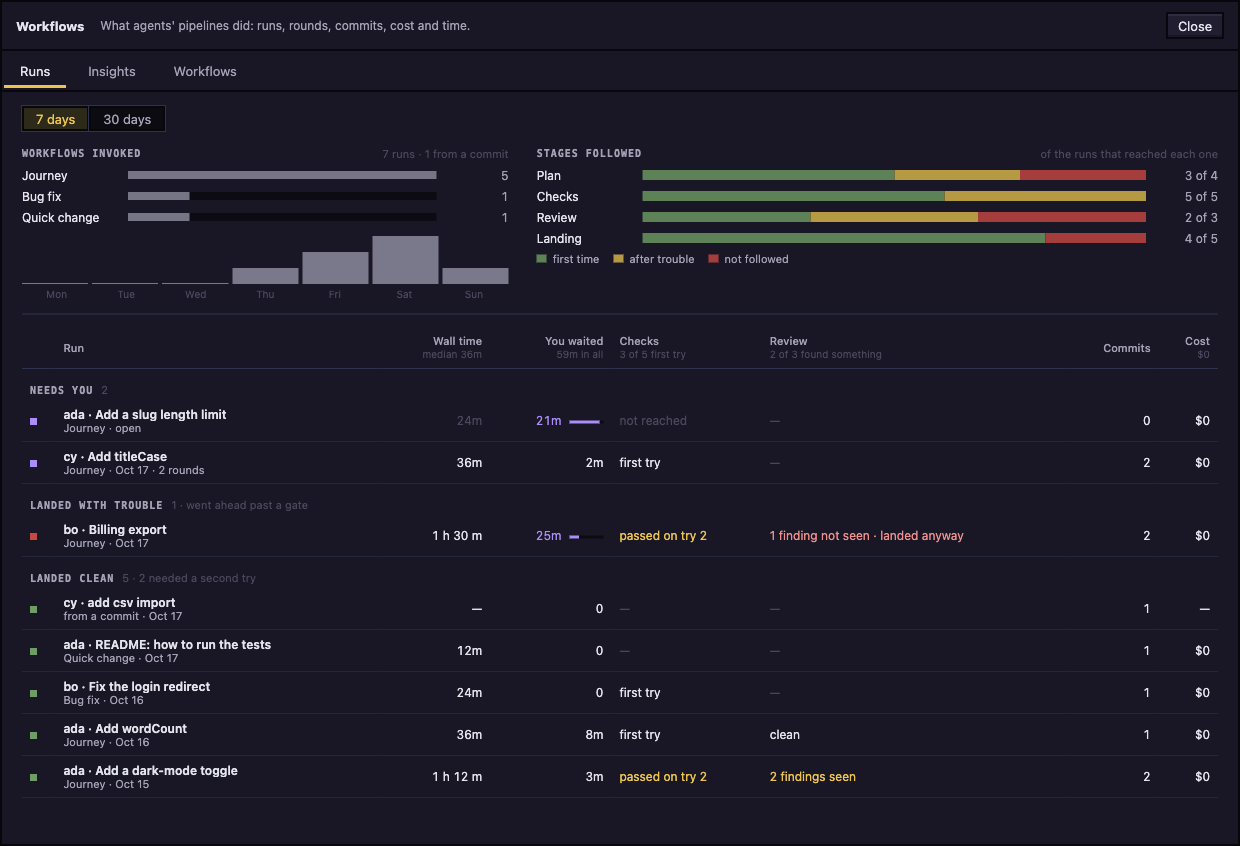
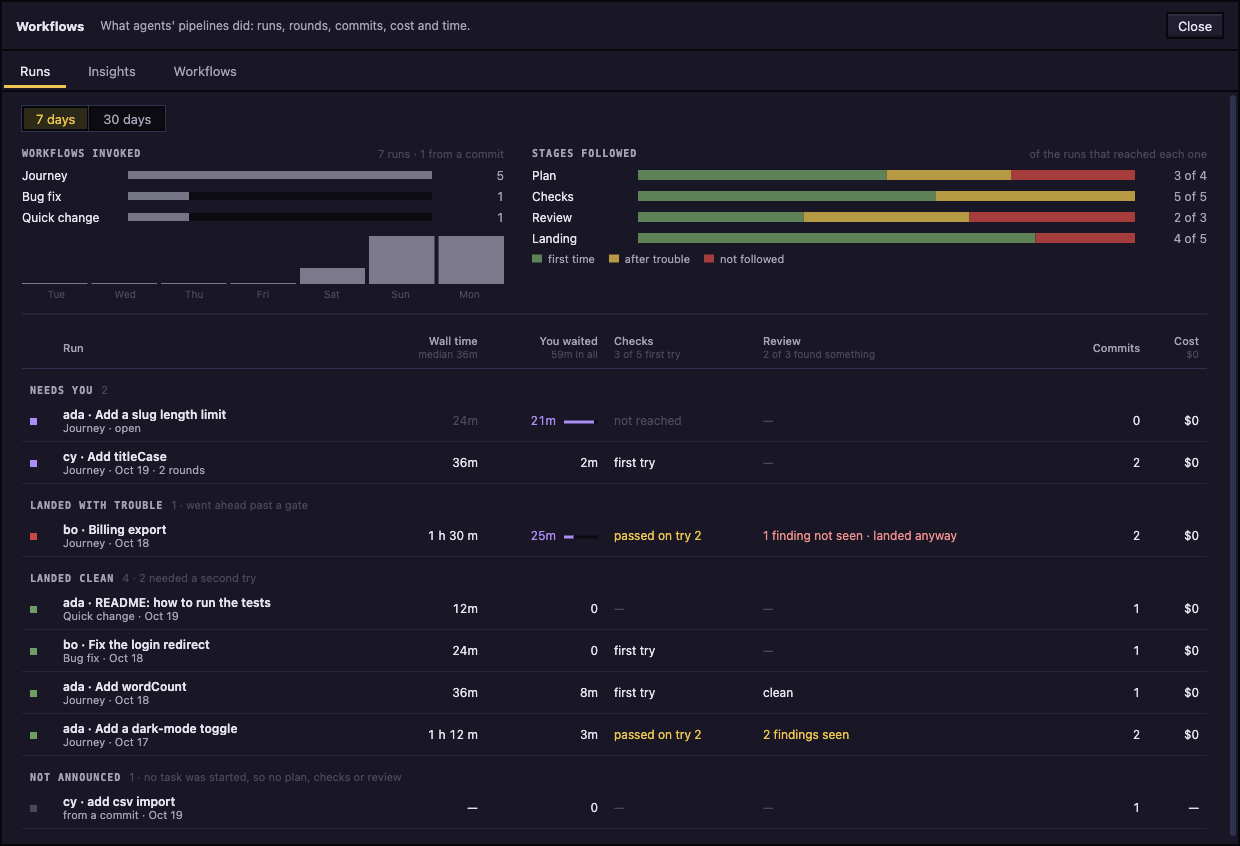
fix(workflows): a run the app starts from a commit is Not announced, not Landed clean, belongs to the todo the agent is on and to one todo, setting a task to doing claims it, and each turn with no task open reminds the agent to call task_begin

diff --git a/src/shared/insights.ts b/src/shared/insights.ts
@@ -328,7 +328,7 @@ export function invocations(runs: Run[], days: number, now: number): Invocations
   return { byWorkflow, total: byWorkflow.reduce((n, w) => n + w.runs, 0), fromCommit, perDay }
 }
 
-export type GroupKey = 'needs' | 'open' | 'trouble' | 'clean' | 'stopped'
+export type GroupKey = 'needs' | 'open' | 'trouble' | 'clean' | 'stopped' | 'unannounced'
 export interface RunGroup {
   key: GroupKey
   title: string
@@ -337,24 +337,26 @@ export interface RunGroup {
   /** Newest first. */
   runs: Run[]
 }
-const GROUP_TITLES: Record<GroupKey, string> = { needs: 'Needs you', open: 'Still open', trouble: 'Landed with trouble', clean: 'Landed clean', stopped: 'Stopped' }
+const GROUP_TITLES: Record<GroupKey, string> = { needs: 'Needs you', open: 'Still open', trouble: 'Landed with trouble', clean: 'Landed clean', stopped: 'Stopped', unannounced: 'Not announced' }
 
 /**
  * The runs by what there is to do about them: those held for the person, those still going, those that finished with a gate missed or overridden, those that finished clean
- * (a retried check or a plan sent back is still clean), and those stopped. A run the app started from a commit is not trouble for never having been announced.
+ * (a retried check or a plan sent back is still clean), and those stopped. A run the app started from a commit is not trouble for never having been announced, nor clean: it has a group of its own.
  */
 export function groupKeyOf(r: Run, tiles: Tile[]): GroupKey {
   if (r.status === 'stopped') return 'stopped'
   if (tiles.some((t) => t.kind === 'wait')) return 'needs'
   if (r.status === 'open') return 'open'
-  return tiles.some((t) => t.gate !== 'told' && t.kind === 'bad') ? 'trouble' : 'clean'
+  if (tiles.some((t) => t.gate !== 'told' && t.kind === 'bad')) return 'trouble'
+  // A run the app started from a commit never had a task, a plan, checks or a review: nothing of it landed clean.
+  return r.auto ? 'unannounced' : 'clean'
 }
 
 /** How a run is said to stand, in the words of its group. */
-export const GROUP_STANDS: Record<GroupKey, string> = { needs: 'needs you', open: 'still open', trouble: 'landed with trouble', clean: 'landed clean', stopped: 'stopped' }
+export const GROUP_STANDS: Record<GroupKey, string> = { needs: 'needs you', open: 'still open', trouble: 'landed with trouble', clean: 'landed clean', stopped: 'stopped', unannounced: 'not announced' }
 
 export function groupRuns(runs: Run[], ctxFor: (run: Run) => StepContext): RunGroup[] {
-  const buckets: Record<GroupKey, Run[]> = { needs: [], open: [], trouble: [], clean: [], stopped: [] }
+  const buckets: Record<GroupKey, Run[]> = { needs: [], open: [], trouble: [], clean: [], stopped: [], unannounced: [] }
   let retried = 0
   for (const r of [...runs].sort((a, b) => b.startedAt - a.startedAt)) {
     const tiles = gateTiles(r, ctxFor(r))
@@ -362,8 +364,8 @@ export function groupRuns(runs: Run[], ctxFor: (run: Run) => StepContext): RunGr
     buckets[key].push(r)
     if (key === 'clean' && tiles.some((t) => t.kind === 'trouble')) retried++
   }
-  const notes: Record<GroupKey, string> = { needs: '', open: '', trouble: 'went ahead past a gate', clean: retried > 0 ? `${retried} needed a second try` : '', stopped: '' }
-  return (['needs', 'open', 'trouble', 'clean', 'stopped'] as const).filter((k) => buckets[k].length > 0).map((key) => ({ key, title: GROUP_TITLES[key], note: notes[key], runs: buckets[key] }))
+  const notes: Record<GroupKey, string> = { needs: '', open: '', trouble: 'went ahead past a gate', clean: retried > 0 ? `${retried} needed a second try` : '', stopped: '', unannounced: 'no task was started, so no plan, checks or review' }
+  return (['needs', 'open', 'trouble', 'clean', 'stopped', 'unannounced'] as const).filter((k) => buckets[k].length > 0).map((key) => ({ key, title: GROUP_TITLES[key], note: notes[key], runs: buckets[key] }))
 }
 
 export interface LedgerRow {

diff --git a/src/main/index.ts b/src/main/index.ts
@@ -82,7 +82,7 @@ import { askModel, auditModel, defaultWorkflow, pickAsker } from '../shared/work
 import { runSpend } from '../shared/runStats'
 import { planReply } from '../shared/plan'
 import { LOG_FORMAT, parseCommitLog } from './workflows/commits'
-import { WORKFLOW_HINT, WORKFLOW_TOOLS, planInstruction, workflowBrief, workflowList } from './workflows/hint'
+import { WORKFLOW_HINT, WORKFLOW_TOOLS, planInstruction, workflowBrief, workflowList, workflowRemind } from './workflows/hint'
 import { fitOptions } from '../shared/efforts'
 import { DEFAULT_PROVIDER } from '../shared/types'
 import { Screen } from './screen'
@@ -619,10 +619,15 @@ const todoRemind = (id: string, prompt: string): string => {
 const LIBRARY_TOOLS = ['library_index', 'library_get', 'library_search', 'library_skip'].map((t) => `mcp__agent-world__${t}`)
 // The todo board is the project's own list, so an agent may use it without asking each time too.
 const TODO_TOOLS = ['todo_list', 'todo_search', 'todo_get', 'todo_add', 'todo_claim', 'todo_done', 'todo_update'].map((t) => `mcp__agent-world__${t}`)
+// The nudge to call task_begin: the opening text alone was not followed reliably (a real agent recorded about half its tasks), so each turn with no task open repeats it.
+const workflowReminder = (id: string): string => {
+  const a = byId(id)
+  return a ? workflowRemind({ enabled: prefs.workflows.enabled, subagent: !!a.parent, builder: !!a.builder, open: workflows.runs().some((r) => r.agent === id && r.status === 'open') }) : ''
+}
 // What is added to each message an agent is sent (Claude only: it has a hook for it) comes from libraryService.remind.
 const libraryRemind = (id: string, prompt: string) => {
   try {
-    return [prefs.libraryEnabled ? libraryService.remind(id, prompt) : '', todoRemind(id, prompt)].filter(Boolean).join('\n') || null
+    return [prefs.libraryEnabled ? libraryService.remind(id, prompt) : '', todoRemind(id, prompt), workflowReminder(id)].filter(Boolean).join('\n') || null
   } catch {
     return null
   }

diff --git a/e2e/workflows-reminder.e2e.ts b/e2e/workflows-reminder.e2e.ts
@@ -1,0 +1,37 @@
+import { mkdirSync, mkdtempSync, writeFileSync } from 'node:fs'
+import { tmpdir } from 'node:os'
+import { join, resolve } from 'node:path'
+import { expect, test } from '@playwright/test'
+import { hire, launchApp } from './launch'
+
+// The office adds a line to a request while workflows are on and the agent has no task open, so the agent is asked again to announce it.
+async function run(workflows: boolean) {
+  const home = mkdtempSync(join(tmpdir(), 'aw-wfrem-'))
+  mkdirSync(join(home, 'aw'), { recursive: true })
+  writeFileSync(join(home, 'aw', 'preferences.json'), JSON.stringify({ setup: { done: true, defaultProvider: 'claude' }, workflows: { enabled: workflows, dial: 'balanced', since: 1, planGate: false, mergeGate: false } }))
+  const { app, shutdown } = await launchApp({ AW_HOME: join(home, 'aw'), AW_CLAUDE_BIN: resolve(__dirname, 'fake-claude.mjs'), FAKE_DELAY_MS: '50', FAKE_SHOW_REMINDER: '1' }, home)
+  const page = await app.firstWindow()
+  await page.evaluate((f) => localStorage.setItem('aw.folder', f), home)
+  await page.reload()
+  await hire(page)
+  return { page, shutdown }
+}
+
+test('with workflows on, a turn with no task open is reminded to call task_begin', async () => {
+  const { page, shutdown } = await run(true)
+  try {
+    await expect(page.locator('.term-host:visible')).toContainText('REMINDER: Before acting: if this request changes code', { timeout: 15_000 })
+  } finally {
+    await shutdown()
+  }
+})
+
+test('with workflows off, nothing about tasks is added to the request', async () => {
+  const { page, shutdown } = await run(false)
+  try {
+    await expect(page.locator('.term-host:visible')).toContainText('REMINDER:', { timeout: 15_000 })
+    await expect(page.locator('.term-host:visible')).not.toContainText('task_begin')
+  } finally {
+    await shutdown()
+  }
+})

diff --git a/src/shared/insights.test.ts b/src/shared/insights.test.ts
@@ -1,5 +1,5 @@
 import { describe, expect, it } from 'vitest'
-import { type Tile, type TileKind, columnRates, groupKeyOf, groupRuns, invocations, ledgerRow, ledgerTotals, stageCounts, gateTiles, headline, runBar, runVerdict, runsWithin, says, timelineOf, weekDays } from './insights'
+import { type Tile, type TileKind, columnRates, GROUP_STANDS, groupKeyOf, groupRuns, invocations, ledgerRow, ledgerTotals, stageCounts, gateTiles, headline, runBar, runVerdict, runsWithin, says, timelineOf, weekDays } from './insights'
 import { type RunEvent, type RunWorkflow, reduceRuns } from './runs'
 
 const MIN = 60_000
@@ -341,9 +341,13 @@ describe('the runs grouped by what to do about them', () => {
     expect(only.map((g) => g.key)).toEqual(['clean'])
     expect(only[0]!.note).toBe('')
   })
-  it('does not call a run the app started from a commit trouble just because it was never announced', () => {
+  it('does not call a run the app started from a commit trouble, nor clean: it is not announced, in a group of its own below the others', () => {
     const auto = reduceRuns([begin(0, null, { auto: true }, 'c'), done(1, 'c')])
-    expect(groupRuns(auto, () => ctx).map((g) => g.key)).toEqual(['clean'])
+    const groups = groupRuns([...auto, ...reduceRuns(landedClean('x', 5))], () => ctx)
+    expect(groups.map((g) => g.key)).toEqual(['clean', 'unannounced'])
+    expect(groups[1]).toMatchObject({ title: 'Not announced', note: 'no task was started, so no plan, checks or review' })
+    expect(groupKeyOf(auto[0]!, gateTiles(auto[0]!, ctx))).toBe('unannounced')
+    expect(GROUP_STANDS.unannounced).toBe('not announced')
   })
 })
 

diff --git a/src/main/workflows/hint.test.ts b/src/main/workflows/hint.test.ts
@@ -1,6 +1,6 @@
 import { describe, expect, it } from 'vitest'
 import type { RunWorkflow } from '../../shared/runs'
-import { PLAN_INSTRUCTION, WORKFLOW_TOOLS, planInstruction, workflowBrief, workflowList } from './hint'
+import { PLAN_INSTRUCTION, WORKFLOW_REMINDER, WORKFLOW_TOOLS, planInstruction, workflowBrief, workflowList, workflowRemind } from './hint'
 
 describe('what task_begin tells the agent about the plan, per dial', () => {
   it('balanced and max ask for the plan every time', () => {
@@ -95,5 +95,18 @@ describe('the workflows the opening text offers', () => {
 describe('the tools an agent may use without being asked each time', () => {
   it('are the office\'s four workflow tools, so reporting a step never stops to ask the person for permission', () => {
     expect(WORKFLOW_TOOLS).toEqual(['mcp__agent-world__task_begin', 'mcp__agent-world__task_done', 'mcp__agent-world__plan_submit', 'mcp__agent-world__step_done'])
+  })
+})
+
+describe('the reminder to announce a task, said at the start of a turn', () => {
+  const ask = { enabled: true, subagent: false, builder: false, open: false }
+  it('is said while workflows are on and the agent has no task open', () => {
+    expect(workflowRemind(ask)).toBe(WORKFLOW_REMINDER)
+  })
+  it('is not said with workflows off, to the builder or a subagent, or while a task is open', () => {
+    expect(workflowRemind({ ...ask, enabled: false })).toBe('')
+    expect(workflowRemind({ ...ask, builder: true })).toBe('')
+    expect(workflowRemind({ ...ask, subagent: true })).toBe('')
+    expect(workflowRemind({ ...ask, open: true })).toBe('')
   })
 })

diff --git a/src/main/workflows/service.test.ts b/src/main/workflows/service.test.ts
@@ -241,6 +241,24 @@ describe('work the agent never announced', () => {
     expect(wf.runs().map((r) => [r.title, r.rounds[0]!.commits.length])).toEqual([['feat: add slugify', 2], ['feat: add truncate', 1]])
   })
 
+  it('a run the app starts belongs to the task the agent is on, and a different task is a different run even when the commits are close', () => {
+    const { wf, state } = make()
+    state.todoOf = () => '4'
+    wf.commit('a2', 'c1', 'feat: cancel button', 10 * MIN)
+    wf.commit('a2', 'c2', 'test: cancel button', 12 * MIN)
+    state.todoOf = () => '5'
+    wf.commit('a2', 'c3', 'feat: todo chip', 13 * MIN)
+    expect(wf.runs().map((r) => [r.title, r.todos, r.rounds[0]!.commits.length])).toEqual([['feat: cancel button', ['4'], 2], ['feat: todo chip', ['5'], 1]])
+  })
+
+  it('commits made while no task is claimed still join, and take the task the agent claims next', () => {
+    const { wf, state } = make()
+    wf.commit('a2', 'c1', 'feat: a', 10 * MIN)
+    state.todoOf = () => '4'
+    wf.commit('a2', 'c2', 'feat: b', 12 * MIN)
+    expect(wf.runs().map((r) => [r.todos, r.rounds[0]!.commits.length])).toEqual([[['4'], 2]])
+  })
+
   it('nothing is started with workflows off, and after a task the agent announced a stray commit is still just flagged', () => {
     const off = make({ enabled: false })
     off.wf.commit('a2', 'x1', 'whatever', 5000)

diff --git a/src/main/workflows/service.ts b/src/main/workflows/service.ts
@@ -329,7 +329,11 @@ export class Workflows {
     if (!this.deps.enabled()) return
     if (last && !last.auto) return this.append({ k: 'commit', t: at, run: last.id, round: last.rounds.length, sha, subject, flagged: true })
     if (at < this.deps.since()) return
-    if (last?.endedAt !== undefined && at - last.endedAt < SAME_WORK_MS) {
+    // A run belongs to one task: commits close together join it unless the agent has moved to another task of the board.
+    const todo = this.deps.todoOf?.(agentId)
+    const held = last?.todos ?? []
+    if (last?.endedAt !== undefined && at - last.endedAt < SAME_WORK_MS && (!todo || held.length === 0 || held.includes(todo))) {
+      this.link(last.id, agentId, held)
       this.append({ k: 'commit', t: at, run: last.id, round: last.rounds.length, sha, subject })
       return this.append({ k: 'done', t: at, run: last.id })
     }
@@ -337,6 +341,7 @@ export class Workflows {
     if (!who) return
     const run = this.deps.newId()
     this.append({ k: 'begin', t: at, run, agent: agentId, name: who.name, project: who.project, title: subject, auto: true })
+    this.link(run, agentId)
     this.append({ k: 'commit', t: at, run, round: 1, sha, subject })
     this.append({ k: 'done', t: at, run })
   }

diff --git a/src/main/workflows/hint.ts b/src/main/workflows/hint.ts
@@ -11,6 +11,9 @@ export const WORKFLOW_TOOLS = ['task_begin', 'task_done', 'plan_submit', 'step_d
 export const WORKFLOW_REMINDER =
   'Before acting: if this request changes code or takes several steps, call task_begin first (follow_up: true only for more work on the task you just finished, not for a different piece of work), and task_done when it is finished. Skip both for a question, a typo or a tiny edit.'
 
+/** The reminder for one turn: only while workflows are on and the agent (not the builder, not a subagent) has no task open, so it costs nothing once a task is announced. */
+export const workflowRemind = (o: { enabled: boolean; subagent: boolean; builder: boolean; open: boolean }): string => (o.enabled && !o.subagent && !o.builder && !o.open ? WORKFLOW_REMINDER : '')
+
 /** What task_begin answers while the plan gate is on: where the plan goes, the four sections the app checks, and that edits wait for approval. */
 export const PLAN_INSTRUCTION =
   'Before changing anything, write your plan to .agent-world/plan.md and call plan_submit. Start the file with these four sections, in this order:\n' +

diff --git a/src/shared/todos.test.ts b/src/shared/todos.test.ts
@@ -57,6 +57,16 @@ describe('changing', () => {
     b = updateTodo(b, '1', { status: 'open' }, ada, 5)
     expect(b.todos[0]!.blockedWhy).toBeUndefined()
   })
+  it('an agent that sets a task to doing is on it, so a run can belong to it', () => {
+    let b = updateTodo(start(), '1', { status: 'doing' }, ada, 3)
+    expect(b.todos[0]).toMatchObject({ status: 'doing', claimedBy: ada })
+    expect(currentTodoOf(b, 'a1')?.id).toBe('1')
+    // A person marking it doing is not an agent working on it; another agent's claim is not taken over.
+    expect(updateTodo(start(), '1', { status: 'doing' }, you, 3).todos[0]!.claimedBy).toBeUndefined()
+    const bob: Actor = { kind: 'agent', id: 'b1', name: 'bob', provider: 'agy' }
+    b = updateTodo(b, '1', { status: 'doing' }, bob, 4)
+    expect(b.todos[0]!.claimedBy).toEqual(ada)
+  })
   it('does not let a second agent claim what another is doing', () => {
     const b = claimTodo(start(), '1', ada, 3)
     expect(() => claimTodo(b, '1', { kind: 'agent', id: 'b1', name: 'bob', provider: 'agy' }, 4)).toThrow(/ada/)

diff --git a/e2e/workflows-runs-view.e2e.ts b/e2e/workflows-runs-view.e2e.ts
@@ -33,7 +33,7 @@ test('the Runs tab is two charts (how often each workflow ran, how well each sta
 
     // The ledger: the run that waits on the person first, then what landed with trouble, then what landed clean, with how many each.
     const ledger = win.getByRole('table', { name: 'Runs' })
-    await expect(ledger.locator('.rb-grp')).toHaveText([/Needs you.*2/, /Landed with trouble.*1/, /Landed clean.*5.*2 needed a second try/])
+    await expect(ledger.locator('.rb-grp')).toHaveText([/Needs you.*2/, /Landed with trouble.*1/, /Landed clean.*4.*2 needed a second try/, /Not announced.*1.*no task was started/])
     await expect(ledger.getByRole('row').filter({ hasText: 'add csv import' })).toContainText('—')
     const billing = ledger.getByRole('row').filter({ hasText: 'Billing export' })
     await expect(billing).toContainText('1 h 30 m')

diff --git a/src/shared/todos.ts b/src/shared/todos.ts
@@ -175,6 +175,8 @@ export function updateTodo(b: TodoBoard, id: string, p: { title?: string; notes?
     blockedWhy: status === 'blocked' ? clip(p.blockedWhy ?? t.blockedWhy, NOTE_MAX) || undefined : undefined
   }
   if (status !== 'doing' && status !== 'blocked') delete next.claimedBy
+  // An agent that sets a task to doing is on it, as with todo_claim; a task another agent is already doing stays theirs.
+  if (status === 'doing' && by.kind === 'agent' && !(t.claimedBy && t.claimedBy.id !== by.id && t.status === 'doing')) next.claimedBy = by
   const changed = put(b, stamp(next, by, at, { what: 'updated' }))
   return target && target !== t.list ? moveTodo(changed, id, target, Number.MAX_SAFE_INTEGER, by, at) : changed
 }

diff --git a/e2e/workflows-auto.e2e.ts b/e2e/workflows-auto.e2e.ts
@@ -42,6 +42,8 @@ test('an agent that commits without announcing a task still gets a run, started 
     await page.locator('header').getByRole('button', { name: 'Workflows' }).click()
     await expect(page.getByRole('dialog', { name: 'Workflows' }).getByRole('table', { name: 'Runs' })).toContainText('add health check')
     await expect(page.getByRole('dialog', { name: 'Workflows' })).toContainText('from a commit')
+    // It did not land clean: no task was started, so it sits in a group that says so.
+    await expect(page.getByRole('dialog', { name: 'Workflows' }).locator('.rb-grp')).toHaveText([/Not announced.*1.*no task was started/])
   } finally {
     await shutdown()
   }
